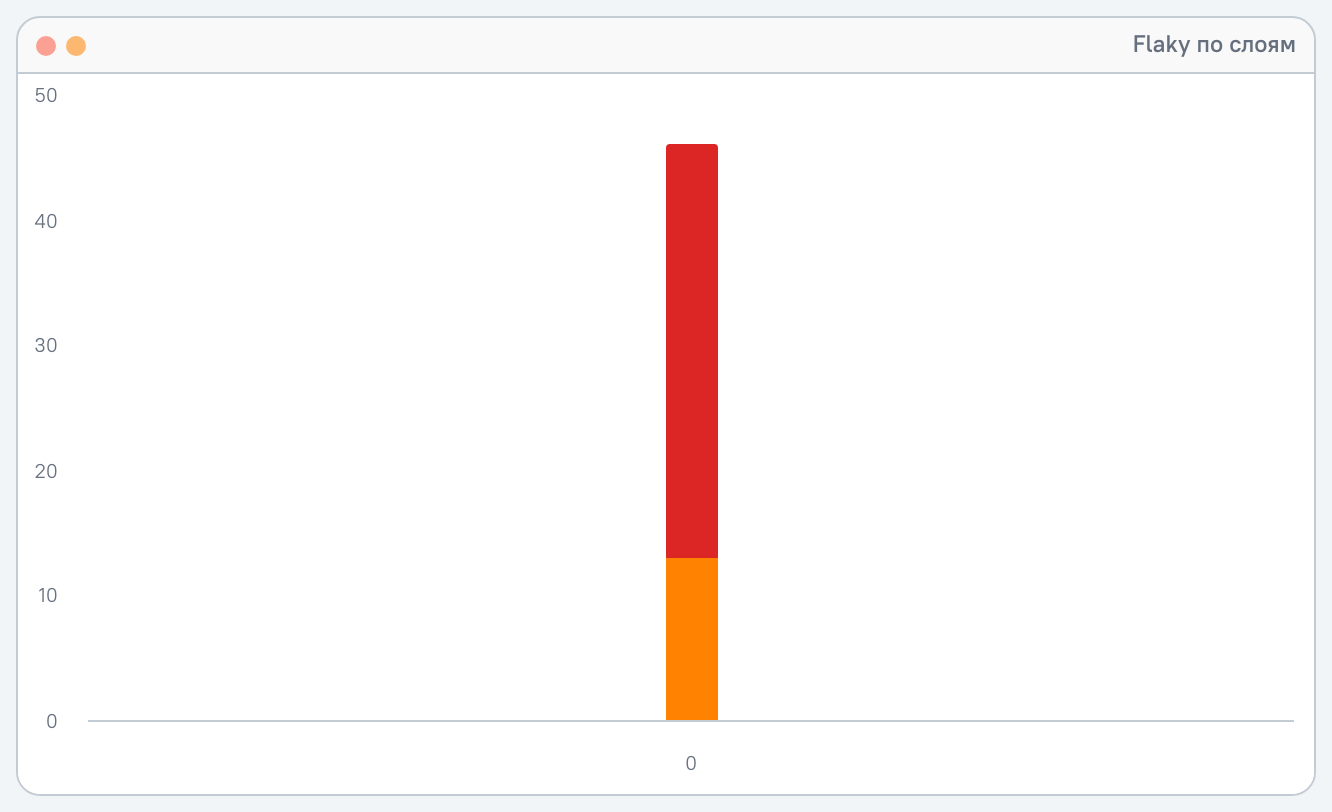
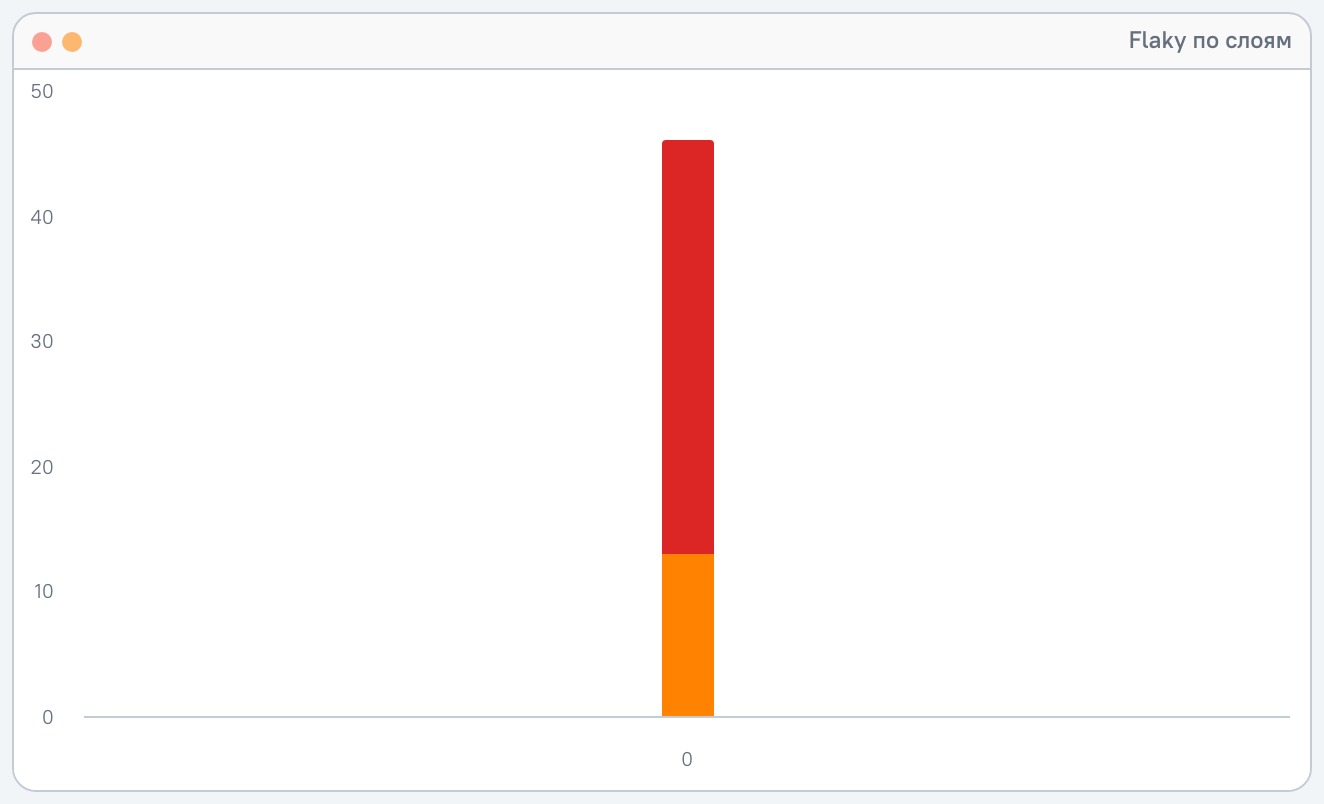
docs(readme): stock vs kit comparison tables + QG states
Three-column gallery (widget | stock | kit). Quality gates: passed/failed
for Allure and Sonar, info hover, and modal links detail.

diff --git a/README.md b/README.md
@@ -8,146 +8,47 @@ header on top of the report.
 
 ## Gallery
 
-Screens from the e2e fixture (`npm run verify:report` → stands `ark-report`
-:3024 and `ark-dogfood` :3021).
+Screens from the e2e fixture (`npm run verify:report` → `ark-report` :3024) and
+DS demos (`design-system-preview` :3000) for failed QG / info popovers.
 
-### Awesome vs Dashboard
+### Charts — stock vs kit
 
-Same kit layout leads both surfaces — locked 2×2, then Allure + Sonar quality
-gates.
-
-<table>
-<tr>
-<td width="50%" valign="top">
-
-**Awesome** — Charts tab
-
-<img src="docs/readme/overview-awesome.png" alt="Awesome Charts tab with kit panels" />
-
-</td>
-<td width="50%" valign="top">
-
-**Dashboard** — full layout
-
-<img src="docs/readme/overview-dashboard.png" alt="Dashboard overview with kit panels" />
-
-</td>
-</tr>
-</table>
-
-### Stock Allure vs kit
-
-Same locked 2×2 row: upstream nivo on the left pair, kit soft-fork on the right
-(SVG pyramid + Highcharts durations, DS `widget-tile` chrome and status dots).
-
-<table>
-<tr>
-<td width="50%" valign="top">
-
-**Stock Allure** — `currentStatus` + `durationDynamics` (nivo)
-
-<img src="docs/readme/stock-locked-top.png" alt="Stock Allure current status and duration dynamics" />
-
-</td>
-<td width="50%" valign="top">
-
-**With kit** — `testingPyramid` (svg) + `durations` (highcharts)
-
-<img src="docs/readme/kit-pyramid-durations.png" alt="Kit testing pyramid and durations by layer" />
-
-</td>
-</tr>
-</table>
+| Widget | Stock Allure | With kit |
+|--------|--------------|----------|
+| **Current status** (`currentStatus`) | <img src="docs/readme/stock-current-status.png" alt="Stock current status" width="360" /> | <img src="docs/readme/kit-current-status.png" alt="Kit current status (Highcharts)" width="360" /> |
+| **Duration dynamics** (`durationDynamics`) | <img src="docs/readme/stock-duration-dynamics.png" alt="Stock duration dynamics" width="360" /> | — *(same stock tile; kit does not re-skin this slot)* |
+| **Testing pyramid** (`testingPyramid`) | <img src="docs/readme/stock-testing-pyramid.png" alt="Stock testing pyramid" width="360" /> | <img src="docs/readme/kit-testing-pyramid.png" alt="Kit testing pyramid (svg)" width="360" /> |
+| **Durations by layer** (`durations`) | <img src="docs/readme/stock-durations-layer.png" alt="Stock durations by layer" width="360" /> | <img src="docs/readme/kit-durations-layer.png" alt="Kit durations by layer (Highcharts)" width="360" /> |
+| **Status dynamics** | <img src="docs/readme/stock-status-dynamics.png" alt="Stock status dynamics" width="360" /> | — |
+| **Severities** | <img src="docs/readme/stock-severity.png" alt="Stock severities" width="360" /> | — |
+| **Services status** (custom panel) | — | <img src="docs/readme/kit-current-status-services.png" alt="Kit services status donut" width="360" /> |
+| **Pass rate gauge** (`panels.fromRun`) | — | <img src="docs/readme/kit-gauge.png" alt="Kit pass-rate gauge" width="360" /> |
+| **Tests by layer** (table, `fromRun`) | — | <img src="docs/readme/kit-layers-table.png" alt="Kit layers table" width="360" /> |
+| **Flaky by layer** (`fromRun` + Highcharts) | — | <img src="docs/readme/kit-flaky-bar.png" alt="Kit flaky by layer" width="360" /> |
+| **Pass rate trend** (`fromHistory`) | — | <img src="docs/readme/kit-pass-rate-trend.png" alt="Kit pass-rate trend" width="360" /> |
+| **amCharts adapter** (spike) | — | <img src="docs/readme/kit-amcharts-stub.png" alt="amCharts adapter stub" width="360" /> |
 
 ### Quality gates — Allure + Sonar
 
-`panels.qualityGate()` (verdict from the run) and a Sonar tile (`kind: "sonar"`,
-DS primitive, info popover). Same chrome as neighbouring widgets
-(`--wt-bar-inset` canon).
+Stock Allure has **no chart widget** for the gate (CI / `qualityGate` config only).
+Kit ships DS tiles: passed / failed, `i` hover popover, file links into the modal.
 
-<img src="docs/readme/kit-quality-gates.png" alt="Allure and Sonar quality gate panels" />
+| | Stock Allure | With kit |
+|--|--------------|----------|
+| **Allure QG — passed** | — | <img src="docs/readme/kit-qg-allure-passed.png" alt="Allure QG passed" width="360" /> |
+| **Allure QG — failed** | — | <img src="docs/readme/kit-qg-allure-failed.png" alt="Allure QG failed" width="360" /> |
+| **Sonar QG — passed** | — | <img src="docs/readme/kit-qg-sonar-passed.png" alt="Sonar QG passed" width="360" /> |
+| **Sonar QG — failed** | — | <img src="docs/readme/kit-qg-sonar-failed.png" alt="Sonar QG failed" width="360" /> |
+| **`i` hover / open** (Allure, passed) | — | <img src="docs/readme/kit-qg-info-hover.png" alt="QG info hover popover" width="360" /> |
+| **Modal + links** (Allure, passed) | — | <img src="docs/readme/kit-qg-info-links.png" alt="QG info links and JSON" width="360" /> |
+| **Modal + links** (Allure, failed) | — | <img src="docs/readme/kit-qg-allure-failed-info.png" alt="Failed Allure QG with info modal" width="360" /> |
+| **Links detail** (Allure, failed popover) | — | <img src="docs/readme/kit-qg-allure-failed-links.png" alt="Failed Allure QG popover links and JSON" width="360" /> |
+| **Modal + links** (Sonar, failed) | — | <img src="docs/readme/kit-qg-sonar-failed-info.png" alt="Failed Sonar QG with info modal" width="360" /> |
+| **Modal + links** (Sonar, passed) | — | <img src="docs/readme/kit-qg-sonar-passed-info.png" alt="Passed Sonar QG with info modal" width="360" /> |
 
-Dark theme:
-
-<img src="docs/readme/kit-quality-gates-dark.png" alt="Quality gates in dark theme" />
-
-### Custom, fromRun, fromHistory
-
-DS header, services donut + pass-rate gauge, layer table, flaky bar, pass-rate
-trend.
-
-<img src="docs/readme/header.png" alt="Design-system header on the Allure report" />
-
-<img src="docs/readme/kit-services-gauge.png" alt="Kit services donut and pass-rate gauge" />
-
-<table>
-<tr>
-<td width="50%" valign="top">
-
-**Pyramid** (svg)
-
-<img src="docs/readme/kit-pyramid-closeup.png" alt="Testing pyramid close-up" />
-
-</td>
-<td width="50%" valign="top">
-
-**Gauge** (`panels.fromRun`, svg)
-
-<img src="docs/readme/kit-gauge-closeup.png" alt="Pass-rate gauge close-up" />
-
-</td>
-</tr>
-<tr>
-<td width="50%" valign="top">
-
-**Table** (`panels.fromRun`, dom)
-
-<img src="docs/readme/kit-layers-table.png" alt="Tests by layer table" />
-
-</td>
-<td width="50%" valign="top">
-
-**Flaky by layer** (highcharts bar)
-
-<img src="docs/readme/kit-flaky-bar.png" alt="Flaky rate by layer bar chart" />
-
-</td>
-</tr>
-</table>
-
-<img src="docs/readme/kit-pass-rate-trend.png" alt="Pass rate trend from history" />
-
-### Theme flip (same tile)
-
-Chrome follows the host light/dark; chart palette stays on the kit canon.
-
-<table>
-<tr>
-<td width="50%" valign="top">
-
-**Light**
-
-<img src="docs/readme/kit-services-light.png" alt="Services donut in light theme" />
-
-</td>
-<td width="50%" valign="top">
-
-**Dark**
-
-<img src="docs/readme/kit-services-dark.png" alt="Services donut in dark theme" />
-
-</td>
-</tr>
-</table>
-
-### Multi-renderer (dogfood)
-
-Same model, different backends — Highcharts pie next to the amCharts adapter
-stub (`ark-dogfood`).
-
-<img src="docs/readme/kit-highcharts-amcharts.png" alt="Highcharts pie vs amCharts adapter stub" />
-
-<img src="docs/readme/kit-multi-renderer.png" alt="Dogfood multi-renderer comparison section" />
+Popover paths are real links (`hrefBase` → GitHub): e.g. `allurerc.mjs`,
+`allure/quality-gate.mjs`, `docs/sonar/quality-gate-profile.json`, profile /
+project key for Sonar.
 
 ## Why
 
